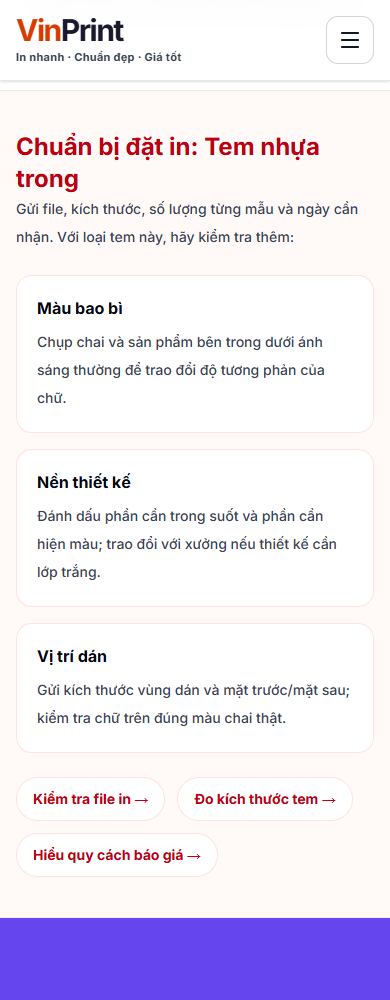
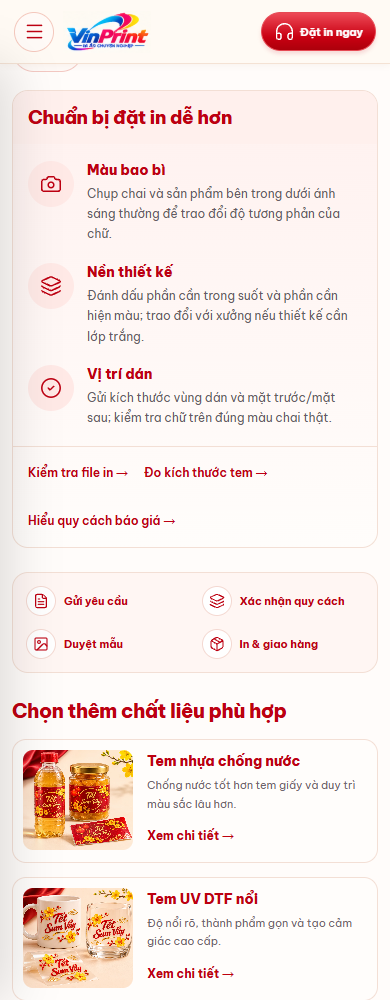
Apply approved Tet product detail design with quote flow

diff --git a/app/components/storefront/ProductDetail.tsx b/app/components/storefront/ProductDetail.tsx
@@ -1,0 +1,43 @@
+"use client";
+import Link from "next/link";
+import Image from "next/image";
+import {useEffect,useRef,useState,type FormEvent} from "react";
+import {Home,Tag,Sticker,Droplets,BadgeCheck,FileText,Gift,Image as ImageIcon,Upload,HelpCircle,ShoppingBag,Phone,Package,Headphones,Menu,BookOpen,X,Layers,Sparkles,Camera,CheckCircle2,ArrowRight,type LucideIcon} from "lucide-react";
+import {useSiteContent} from "../SiteContentProvider";
+import type {Product} from "../../lib/products";
+import type {ProductGuide} from "../../lib/product-guides";
+import type {OrderContext} from "../../lib/product-order-context";
+import {trackEvent} from "../../lib/analytics";
+import {buildQuoteMessage,safePublicHref,type QuoteValues} from "../../lib/storefront";
+import "./storefront.css";
+import "./product-detail.css";
+
+function Icon({icon:Component}:{icon:LucideIcon}){return <i aria-hidden="true"><Component/></i>;}
+function Art({box}:{box:string}){return <svg viewBox={box} preserveAspectRatio="xMidYMid slice" aria-hidden="true"><image href="/images/tet-2027/reference-products.png" width="1781" height="883"/></svg>;}
+type Props={product:Product;guide?:ProductGuide;orderContext?:OrderContext;related:Product[];posts:{slug:string;title:string}[]};
+export default function ProductDetail({product,guide,orderContext,related,posts}:Props){
+ const content=useSiteContent();const contact=content.contact;const zalo=safePublicHref(contact.zaloUrl);
+ const [menu,setMenu]=useState(false),[request,setRequest]=useState(""),[copied,setCopied]=useState(false),[copyError,setCopyError]=useState("");const dialog=useRef<HTMLDialogElement>(null),requestField=useRef<HTMLTextAreaElement>(null);
+ useEffect(()=>{if(!menu)return;const close=(event:KeyboardEvent)=>{if(event.key==="Escape")setMenu(false);};document.addEventListener("keydown",close);return ()=>document.removeEventListener("keydown",close);},[menu]);
+ function openQuote(){setMenu(false);setRequest("");setCopied(false);setCopyError("");dialog.current?.showModal();}
+ function prepare(event:FormEvent<HTMLFormElement>){event.preventDefault();const data=new FormData(event.currentTarget);const values=Object.fromEntries(["material","size","quantity","name","phone","deadline","note"].map(key=>[key,String(data.get(key)||"")])) as QuoteValues;values.product=product.name;setRequest(buildQuoteMessage(values));}
+ async function copy(){try{await navigator.clipboard.writeText(request);setCopied(true);setCopyError("");}catch{requestField.current?.focus();requestField.current?.select();setCopyError("Chọn và sao chép nội dung bên dưới để gửi qua Zalo.");}}
+ const navItems:[string,string,LucideIcon][]=[["Trang chủ","/",Home],["In tem nhãn","/san-pham/tem-giay",Tag],["In decal sticker","/san-pham/sticker-trang-tri",Sticker],["Tem nhãn chống nước","/san-pham/tem-nhua-chong-nuoc",Droplets],["Tem bạc, tem ánh kim","/san-pham/tem-bac",BadgeCheck],["Ấn phẩm quảng cáo","/?danh-muc=print#san-pham-tet",FileText],["Tem dán hộp & túi giấy","/nganh/sticker-hop-qua-tet",Gift],["Kho mẫu tham khảo","/mau-tem-moi",ImageIcon]];
+ return <div className="vinprint-storefront vp-product-storefront">
+ <aside id="sidebar" className={menu?"open":""} aria-label="Danh mục VinPrint"><Link className="logo" href="/" aria-label="VinPrint trang chủ"><Art box="18 0 178 77"/></Link><nav aria-label="Danh mục dịch vụ"><p>Danh mục dịch vụ</p>{navItems.map(([name,href,icon])=><Link prefetch={false} key={name} href={href} className={"vp-nav vp-action "+(href.endsWith(product.slug)?"active":"")} aria-current={href.endsWith(product.slug)?"page":undefined} onClick={()=>setMenu(false)}><Icon icon={icon}/>{name}</Link>)}<p>Công cụ & tiện ích</p><Link className="vp-nav vp-action" href="/cong-cu-mien-phi"><Icon icon={Sparkles}/>Công cụ miễn phí</Link><button className="vp-nav" onClick={openQuote}><Icon icon={FileText}/>Báo giá in online</button><a className="vp-nav vp-action" href={zalo} target="_blank" rel="noreferrer"><Icon icon={Upload}/>Gửi file thiết kế</a><Link className="vp-nav vp-action" href="/#quy-trinh"><Icon icon={HelpCircle}/>Hướng dẫn đặt in</Link><Link className="vp-nav vp-action" href="/blog"><Icon icon={BookOpen}/>Cẩm nang in ấn</Link><p>Hỗ trợ khách hàng</p><a className="vp-nav vp-action" href={zalo} target="_blank" rel="noreferrer"><Icon icon={ShoppingBag}/>Hỗ trợ đơn hàng</a><Link className="vp-nav vp-action" href="/#bang-gia"><Icon icon={FileText}/>Bảng giá tham khảo</Link><Link className="vp-nav vp-action" href="/lien-he"><Icon icon={Phone}/>Liên hệ hỗ trợ</Link></nav><div className="sidebar-art"><Art box="0 746 222 137"/></div></aside>
+ {menu&&<button className="vp-detail-backdrop" aria-label="Đóng danh mục" onClick={()=>setMenu(false)}/>}
+ <div className="workspace"><header className="vp-detail-topbar"><button id="menu" aria-label={menu?"Đóng danh mục":"Mở danh mục"} aria-expanded={menu} aria-controls="sidebar" onClick={()=>setMenu(!menu)}><Icon icon={Menu}/></button><Link className="vp-mobile-logo" href="/" aria-label="VinPrint"><Art box="18 0 178 77"/></Link><div className="peach"><Art box="223 0 230 70"/></div><nav className="toplinks" aria-label="Tiện ích nhanh"><button onClick={openQuote}><Icon icon={FileText}/>Báo giá nhanh</button><a className="vp-action" href={zalo} target="_blank" rel="noreferrer"><Icon icon={Upload}/>Gửi file in</a><Link className="vp-action" href="/mau-tem-moi"><Icon icon={ImageIcon}/>Kho mẫu</Link><a className="vp-action" href={zalo} target="_blank" rel="noreferrer"><Icon icon={Package}/>Đơn hàng</a><Link className="vp-action" href="/#quy-trinh"><Icon icon={HelpCircle}/>Hướng dẫn</Link></nav><div className="account"><a className="coins vp-action" href={"tel:"+contact.phone.replace(/[^+\d]/g,"")}><Icon icon={Phone}/>{contact.phoneDisplay}</a><button className="red" onClick={openQuote}><Icon icon={Headphones}/>Đặt in ngay</button><a className="avatar vp-action" href={zalo} aria-label="Nhắn Zalo VinPrint" target="_blank" rel="noreferrer">VP</a></div></header>
+ <main id="main-content" tabIndex={-1} className="vp-detail-main"><nav className="vp-detail-breadcrumb" aria-label="Đường dẫn"><Link href="/" aria-label="Trang chủ"><Icon icon={Home}/></Link><span>/</span><Link href="/san-pham">Tem nhãn</Link><span>/</span><span aria-current="page">{product.name}</span></nav>
+ <section className="vp-detail-hero" aria-labelledby="detail-title"><div className="vp-detail-photo"><Image unoptimized src={product.image} alt={"Mẫu minh họa thiết kế "+product.name} width={1448} height={1086} priority/><span>Ảnh mẫu minh họa</span></div><div className="vp-detail-summary"><h1 id="detail-title">{product.name}</h1><p className="vp-detail-eyebrow">{product.eyebrow}</p><p className="vp-detail-description">{product.description}</p><strong className="vp-detail-price">{product.priceLabel}</strong><p className="vp-detail-price-note">Giá tham khảo, xác nhận theo quy cách.</p><ul className="vp-detail-chips">{product.eyebrow.split(" · ").concat("In theo yêu cầu").map((text,index)=><li key={text}><Icon icon={index===0?Layers:index===1?Sparkles:FileText}/>{text}</li>)}</ul><div className="vp-detail-actions"><button className="red" onClick={openQuote}>Nhận báo giá <Icon icon={ArrowRight}/></button><a className="vp-action" href={zalo} target="_blank" rel="noreferrer" onClick={()=>trackEvent("click_zalo",{position:"product_"+product.slug})}>Gửi file qua Zalo</a></div><p className="vp-detail-note"><Icon icon={HelpCircle}/>Gửi kích thước, số lượng và ảnh bề mặt cần dán.</p><a className="vp-detail-source" href={product.source} target="_blank" rel="noreferrer">Xem sản phẩm tại shop →</a></div></section>
+ <nav className="vp-detail-tabs" aria-label="Nội dung sản phẩm"><a href="#ung-dung">Ứng dụng</a><a href="#order-checklist-title">Quy cách & file</a><a href="#luu-y-khi-dan">Lưu ý khi dán</a><a href="#product-faq-heading">Hỏi đáp</a></nav>
+ {orderContext&&<section className="vp-detail-panel vp-detail-prep" data-product-checklist={product.slug} aria-labelledby="order-checklist-title"><h2 id="order-checklist-title">Chuẩn bị đặt in dễ hơn</h2><dl className="vp-detail-checks">{orderContext.checks.map((check,index)=><div key={check.label}><Icon icon={index===0?Camera:index===1?Layers:CheckCircle2}/><div><dt>{check.label}</dt><dd>{check.text}</dd></div></div>)}</dl><nav className="vp-detail-guide-links" aria-label="Chuẩn bị đặt in"><Link href="/blog/chuan-bi-file-in-tem-khong-bi-mo">Kiểm tra file in →</Link><Link href="/huong-dan/chon-kich-thuoc-tem">Đo kích thước tem →</Link><Link href="/blog/gia-in-tem-so-luong-it-phu-thuoc-gi">Hiểu quy cách báo giá →</Link></nav></section>}
+ <ol className="vp-detail-process" aria-label="Quy trình đặt in">{[[FileText,"Gửi yêu cầu"],[Layers,"Xác nhận quy cách"],[ImageIcon,"Duyệt mẫu"],[Package,"In & giao hàng"]].map(([icon,label])=><li key={String(label)}><Icon icon={icon as LucideIcon}/><span>{String(label)}</span><ArrowRight aria-hidden="true"/></li>)}</ol>
+ <section className="related-products vp-detail-related" aria-labelledby="detail-related-title"><h2 id="detail-related-title">Chọn thêm chất liệu phù hợp</h2><div>{related.map(item=><Link href={"/san-pham/"+item.slug} key={item.slug}><Image unoptimized src={item.image} alt={"Mẫu minh họa "+item.name} width={160} height={120} loading="lazy"/><div><h3>{item.name}</h3><p>{item.benefit}</p><span>Xem chi tiết →</span></div></Link>)}</div></section>
+ <section className="vp-detail-panel" id="ung-dung"><h2>{product.name}: khi nào nên chọn?</h2><ul className="vp-detail-uses">{product.uses.map(use=><li key={use}>{use}</li>)}</ul>{guide?.paragraphs.map(text=><p className="vp-detail-body" key={text}>{text}</p>)}<p className="vp-detail-body">{product.benefit} Hãy thử trên bề mặt thực tế trước khi in số lượng lớn.</p></section>
+ {guide&&<section className="vp-detail-panel vp-detail-advice" id="luu-y-khi-dan"><div><h2>Nên chọn khi</h2><ul>{guide.chooseWhen.map(text=><li key={text}>✓ {text}</li>)}</ul></div><div><h2>Cần lưu ý</h2><ul>{guide.watchOut.map(text=><li key={text}>{text}</li>)}</ul></div><nav className="vp-detail-guide-links">{guide.links.map(link=><Link key={link.href} href={link.href}>{link.label} →</Link>)}</nav></section>}
+ {guide&&<section className="vp-detail-panel" aria-labelledby="product-faq-heading"><h2 id="product-faq-heading">{"Câu hỏi thường gặp về "+product.name.charAt(0).toLowerCase()+product.name.slice(1)}</h2><dl className="vp-detail-faq">{guide.faqs.map(item=><div key={item.q}><dt>{item.q}</dt><dd>{item.a}</dd></div>)}</dl>{posts.length>0&&<nav className="vp-detail-guide-links" aria-label="Bài viết liên quan">{posts.map(post=><Link href={"/blog/"+post.slug} key={post.slug}>{post.title} →</Link>)}</nav>}</section>}
+ <footer className="vp-detail-footer"><strong>VinPrint</strong><p>{contact.address} · {contact.phoneDisplay}</p><nav><Link href="/lien-he">Liên hệ</Link><Link href="/chinh-sach">Chính sách đặt in</Link><Link href="/bao-hanh">Kiểm tra & xử lý lỗi</Link><Link href="/san-pham">Tất cả sản phẩm</Link></nav></footer>
+ </main></div>
+ <dialog className="vp-detail-dialog" ref={dialog} aria-labelledby="detail-quote-title"><button className="vp-detail-close" onClick={()=>dialog.current?.close()} aria-label="Đóng hộp thoại"><X/></button><h2 id="detail-quote-title">Nhận báo giá in</h2>{!request?<><p>Chuẩn bị yêu cầu gửi VinPrint qua Zalo. Chưa phát sinh đơn hàng hoặc thanh toán.</p><form onSubmit={prepare}><label htmlFor="quote-product">Sản phẩm cần in</label><input id="quote-product" value={product.name} readOnly/><input type="hidden" name="material" value={product.name}/><div className="vp-detail-form-row"><div><label htmlFor="size">Kích thước</label><input id="size" name="size" required maxLength={80} placeholder="Ví dụ: 4 × 6 cm"/></div><div><label htmlFor="quantity">Số lượng</label><input id="quantity" name="quantity" type="number" defaultValue={500} min={1} max={1000000} step={1} required/></div></div><label htmlFor="deadline">Ngày cần nhận</label><input id="deadline" name="deadline" type="date"/><label htmlFor="note">Bề mặt dán và yêu cầu thêm</label><textarea id="note" name="note" maxLength={1000} rows={3}/><button className="red" type="submit">Chuẩn bị nội dung gửi Zalo →</button></form></>:<><p>Sao chép nội dung rồi gửi qua Zalo để xưởng xác nhận.</p><textarea ref={requestField} aria-label="Nội dung yêu cầu báo giá" readOnly rows={9} value={request}/><div className="vp-detail-actions"><button className="red" onClick={copy}>{copied?"Đã sao chép":"Sao chép yêu cầu"}</button><a className="vp-action" href={zalo} target="_blank" rel="noreferrer">Mở Zalo gửi yêu cầu →</a></div>{copyError&&<p role="status">{copyError}</p>}</>}</dialog>
+ </div>;
+}

diff --git a/app/components/storefront/product-detail.css b/app/components/storefront/product-detail.css
@@ -1,0 +1,36 @@
+.vp-product-storefront .vp-detail-main{padding:20px 22px 0;max-width:1800px;margin:auto}
+.vp-product-storefront .vp-detail-topbar{position:sticky;top:0;z-index:25}
+.vp-product-storefront .vp-detail-breadcrumb{display:flex;align-items:center;gap:14px;min-height:32px;margin-bottom:20px;font-size:13px;color:#6d6570}
+.vp-product-storefront .vp-detail-breadcrumb a{display:inline-flex;align-items:center;color:var(--ink);min-height:32px}.vp-product-storefront .vp-detail-breadcrumb [aria-current]{color:var(--red);font-weight:700}
+.vp-product-storefront .vp-detail-hero{display:grid;grid-template-columns:1fr 1fr;gap:32px;align-items:start}
+.vp-product-storefront .vp-detail-photo{position:relative;border-radius:17px;overflow:hidden;background:#fff4e7;aspect-ratio:3/2}
+.vp-product-storefront .vp-detail-photo>img{display:block;width:100%;height:100%;object-fit:cover}
+.vp-product-storefront .vp-detail-photo>span{position:absolute;bottom:12px;left:12px;background:#fffdf4e8;padding:7px 11px;border-radius:18px;font-size:11px;color:#5a4b49}
+.vp-product-storefront .vp-detail-summary h1{font-size:clamp(27px,2.5vw,40px);line-height:1.2;margin:0 0 12px;color:var(--red);font-weight:800;letter-spacing:-.7px}
+.vp-product-storefront .vp-detail-eyebrow{display:inline-block;margin:0 0 12px;padding:5px 13px;border-radius:20px;background:#ffe4e1;color:var(--red);font-size:15px;font-weight:700}
+.vp-product-storefront .vp-detail-description{font-size:14px;line-height:1.75;color:#4d4550;margin:0 0 14px}
+.vp-product-storefront .vp-detail-price{display:block;color:var(--red);font-size:28px;font-weight:800;line-height:1.4}
+.vp-product-storefront .vp-detail-price-note{font-size:12px;color:#776c72;margin:0 0 16px}
+.vp-product-storefront .vp-detail-chips{display:flex;flex-wrap:wrap;gap:8px;list-style:none;padding:0;margin:0 0 20px}
+.vp-product-storefront .vp-detail-chips li{display:inline-flex;align-items:center;gap:8px;border:1px solid #f4ccc4;background:#fffaf7;border-radius:24px;padding:9px 15px;color:var(--red);font-size:12px;font-weight:700}
+.vp-product-storefront .vp-detail-actions{display:flex;gap:12px;flex-wrap:wrap;margin-top:8px}.vp-product-storefront .vp-detail-actions>button,.vp-product-storefront .vp-detail-actions>a{flex:1;min-height:46px;font-weight:700;text-align:center;white-space:nowrap}
+.vp-product-storefront .vp-detail-note{display:flex;gap:9px;align-items:center;padding:11px 14px;border-radius:12px;background:#ffecea;color:var(--red);font-size:12px;line-height:1.6;margin:16px 0 0}
+.vp-product-storefront .vp-detail-source{display:inline-flex;align-items:center;min-height:36px;color:#7b6566;font-size:11px}
+.vp-product-storefront .vp-detail-tabs{display:flex;flex-wrap:wrap;gap:9px;margin:20px 0 18px}.vp-product-storefront .vp-detail-tabs a{display:inline-flex;align-items:center;justify-content:center;min-height:40px;padding:8px 23px;border:1px solid #f3c8c2;border-radius:24px;color:var(--red);font-size:13px;font-weight:700;background:#fffaf7}.vp-product-storefront .vp-detail-tabs a:first-child{background:var(--red);color:white}
+.vp-product-storefront .vp-detail-panel{border:1px solid var(--line);border-radius:16px;padding:22px;background:#fff;margin:24px 0}
+.vp-product-storefront h2{font-size:23px;line-height:1.4;font-weight:800;letter-spacing:-.5px;color:var(--red);margin:0 0 14px}
+.vp-product-storefront .vp-detail-prep{padding:0;overflow:hidden;background:linear-gradient(#fff1ef,#fffdfb);margin-top:0}.vp-product-storefront .vp-detail-prep h2{padding:10px 22px;margin:0;background:#fff0ed;font-size:21px}
+.vp-product-storefront .vp-detail-checks{display:grid;grid-template-columns:repeat(3,minmax(0,1fr));margin:0;padding:18px 22px;gap:24px}.vp-product-storefront .vp-detail-checks>div{display:flex;gap:13px;align-items:flex-start}.vp-product-storefront .vp-detail-checks>div>i{width:46px;height:46px;padding:12px;border-radius:50%;background:#ffe9e6;color:var(--red)}
+.vp-product-storefront .vp-detail-checks dt{font-size:15px;font-weight:800;color:var(--red);margin-bottom:5px}.vp-product-storefront .vp-detail-checks dd{font-size:12px;line-height:1.7;color:#655b64;margin:0}
+.vp-product-storefront .vp-detail-guide-links{display:flex;gap:10px 22px;flex-wrap:wrap}.vp-product-storefront .vp-detail-guide-links a{display:inline-flex;align-items:center;min-height:44px;color:var(--red);font-size:12px;font-weight:600;line-height:1.5}.vp-product-storefront .vp-detail-prep>.vp-detail-guide-links{border-top:1px solid var(--line);padding:0 22px}
+.vp-product-storefront .vp-detail-process{list-style:none;padding:12px 22px;margin:16px 0 24px;display:grid;grid-template-columns:repeat(4,minmax(0,1fr));gap:18px;border:1px solid var(--line);border-radius:26px;background:#fff6f3}.vp-product-storefront .vp-detail-process li{display:flex;align-items:center;gap:12px;color:var(--red);font-size:13px;font-weight:700}.vp-product-storefront .vp-detail-process li>i{width:38px;height:38px;padding:8px;border:1px solid #f4d8d1;border-radius:50%;background:white}.vp-product-storefront .vp-detail-process li>svg{width:18px;height:18px;margin-left:auto}.vp-product-storefront .vp-detail-process li:last-child>svg{display:none}
+.vp-product-storefront .vp-detail-related{padding:0;margin:24px 0}.vp-product-storefront .vp-detail-related>div{display:grid;grid-template-columns:repeat(3,minmax(0,1fr));gap:14px}.vp-product-storefront .vp-detail-related>div>a{display:grid;grid-template-columns:110px minmax(0,1fr);gap:14px;padding:10px;background:#fffdfb;border:1px solid var(--line);border-radius:14px;min-width:0}.vp-product-storefront .vp-detail-related img{width:110px;height:110px;object-fit:cover;border-radius:10px}.vp-product-storefront .vp-detail-related h3{font-size:14px;line-height:1.4;color:var(--red);font-weight:800;margin:2px 0 5px}.vp-product-storefront .vp-detail-related p{font-size:11px;line-height:1.65;color:#6f646b;margin:0 0 7px}.vp-product-storefront .vp-detail-related span{display:inline-flex;min-height:32px;align-items:center;font-size:12px;color:var(--red);font-weight:700}
+.vp-product-storefront .vp-detail-uses{display:flex;flex-wrap:wrap;gap:10px;list-style:none;padding:0;margin:0 0 20px}.vp-product-storefront .vp-detail-uses li{border:1px solid var(--line);border-radius:24px;padding:9px 15px;font-size:13px;background:#fffaf7}.vp-product-storefront .vp-detail-body{font-size:14px;line-height:1.9;color:#5c5460;max-width:95ch;margin:10px 0}
+.vp-product-storefront .vp-detail-advice{display:grid;grid-template-columns:1fr 1fr;gap:22px}.vp-product-storefront .vp-detail-advice ul{margin:0;padding-left:18px}.vp-product-storefront .vp-detail-advice li{font-size:13px;line-height:1.8;color:#5c5460;margin-bottom:7px}.vp-product-storefront .vp-detail-advice nav{grid-column:1/-1}
+.vp-product-storefront .vp-detail-faq{margin:0;display:grid;grid-template-columns:repeat(3,minmax(0,1fr));gap:20px}.vp-product-storefront .vp-detail-faq dt{font-weight:700;font-size:14px;color:var(--ink);line-height:1.6}.vp-product-storefront .vp-detail-faq dd{font-size:13px;line-height:1.9;color:#655b64;margin:8px 0 0}
+.vp-product-storefront .vp-detail-footer{padding:22px 0;color:#75686c;font-size:12px}.vp-product-storefront .vp-detail-footer strong{font-size:22px;color:var(--red)}.vp-product-storefront .vp-detail-footer nav{display:flex;gap:20px;flex-wrap:wrap}.vp-product-storefront .vp-detail-footer a{display:inline-flex;align-items:center;min-height:44px;color:var(--red)}
+.vp-product-storefront .vp-detail-dialog{border:1px solid var(--line);border-radius:20px;max-width:560px;width:calc(100% - 28px);padding:28px;max-height:88dvh;overflow:auto}.vp-product-storefront .vp-detail-dialog::backdrop{background:#311b2466}.vp-product-storefront .vp-detail-dialog p{font-size:13px;line-height:1.7;color:#6d6269}.vp-product-storefront .vp-detail-dialog label{display:block;font-size:13px;font-weight:700;margin:13px 0 6px}.vp-product-storefront .vp-detail-dialog input,.vp-product-storefront .vp-detail-dialog textarea{display:block;width:100%;min-width:0;border:1px solid #edd3cb;border-radius:9px;padding:10px;font-size:14px;background:white;color:var(--ink)}.vp-product-storefront .vp-detail-dialog form>button{margin-top:16px;width:100%}.vp-product-storefront .vp-detail-form-row{display:grid;grid-template-columns:1fr 1fr;gap:14px}.vp-product-storefront .vp-detail-close{position:absolute;right:12px;top:12px;min-width:36px;padding:7px}.vp-product-storefront .vp-detail-close svg{width:20px;height:20px}
+.vp-product-storefront .vp-detail-backdrop{display:none}
+@media(max-width:1250px){.vp-product-storefront .peach{display:none}.vp-product-storefront .vp-detail-hero{gap:22px}.vp-product-storefront .vp-detail-related>div>a{grid-template-columns:80px minmax(0,1fr)}.vp-product-storefront .vp-detail-related img{width:80px;height:100px}.vp-product-storefront .vp-detail-chips li{padding:8px 11px}}
+@media(max-width:1000px){.vp-product-storefront .vp-detail-hero{grid-template-columns:1fr}.vp-product-storefront .vp-detail-photo{max-height:460px}.vp-product-storefront .vp-detail-checks{gap:16px}.vp-product-storefront .vp-detail-checks>div{display:block}.vp-product-storefront .vp-detail-checks>div>i{margin-bottom:10px}.vp-product-storefront .vp-detail-process{grid-template-columns:repeat(2,minmax(0,1fr))}.vp-product-storefront .vp-detail-related>div{grid-template-columns:1fr}.vp-product-storefront .vp-detail-related>div>a{grid-template-columns:110px 1fr}.vp-product-storefront .vp-detail-related img{width:110px;height:100px}}
+@media(max-width:700px){.vp-product-storefront .vp-detail-main{padding:14px 12px 0}.vp-product-storefront .vp-detail-breadcrumb{font-size:11px;gap:8px;margin-bottom:14px}.vp-product-storefront .vp-detail-hero{gap:18px}.vp-product-storefront .vp-detail-summary h1{font-size:28px}.vp-product-storefront .vp-detail-eyebrow{font-size:13px}.vp-product-storefront .vp-detail-description{font-size:13px}.vp-product-storefront .vp-detail-price{font-size:25px}.vp-product-storefront .vp-detail-chips{gap:6px;margin-bottom:15px}.vp-product-storefront .vp-detail-chips li{font-size:11px;padding:8px 10px;gap:6px}.vp-product-storefront .vp-detail-chips i{width:17px;height:17px}.vp-product-storefront .vp-detail-actions{gap:8px}.vp-product-storefront .vp-detail-actions>button,.vp-product-storefront .vp-detail-actions>a{font-size:12px;padding:9px 12px}.vp-product-storefront .vp-detail-tabs{gap:7px}.vp-product-storefront .vp-detail-tabs a{font-size:11px;padding:8px 13px;min-height:44px}.vp-product-storefront h2{font-size:20px}.vp-product-storefront .vp-detail-panel{padding:18px 15px}.vp-product-storefront .vp-detail-prep{padding:0}.vp-product-storefront .vp-detail-prep h2{font-size:19px;padding:13px 15px}.vp-product-storefront .vp-detail-checks{grid-template-columns:1fr;padding:17px 15px;gap:18px}.vp-product-storefront .vp-detail-checks>div{display:flex;gap:13px}.vp-product-storefront .vp-detail-checks>div>i{margin:0}.vp-product-storefront .vp-detail-checks dt{font-size:14px}.vp-product-storefront .vp-detail-checks dd{font-size:12px}.vp-product-storefront .vp-detail-prep>.vp-detail-guide-links{padding:4px 15px}.vp-product-storefront .vp-detail-guide-links{gap:4px 16px}.vp-product-storefront .vp-detail-process{padding:13px;gap:13px;border-radius:16px}.vp-product-storefront .vp-detail-process li{font-size:11px;gap:8px}.vp-product-storefront .vp-detail-process li>i{width:30px;height:30px;padding:6px}.vp-product-storefront .vp-detail-process li>svg{display:none}.vp-product-storefront .vp-detail-advice,.vp-product-storefront .vp-detail-faq{grid-template-columns:1fr}.vp-product-storefront .vp-detail-body{font-size:13px}.vp-product-storefront .vp-detail-dialog{padding:28px 18px 18px}.vp-product-storefront .vp-detail-form-row{grid-template-columns:1fr}.vp-product-storefront .vp-detail-backdrop{display:block;position:fixed;inset:64px 0 0;background:#24141455;border:0;border-radius:0;z-index:19;width:100%;height:calc(100dvh - 64px)}.vp-product-storefront aside{z-index:26}.vp-product-storefront .sidebar-art{position:fixed}}

diff --git a/app/san-pham/[slug]/page.tsx b/app/san-pham/[slug]/page.tsx
@@ -1,11 +1,6 @@
 import type { Metadata } from "next";
 import { notFound } from "next/navigation";
-import Link from "next/link";
-import Image from "next/image";
-import { ArrowDownIcon, ArrowLeftIcon, ArrowUpRightIcon, MessageIcon } from "../../components/icons";
-import ConversionLink from "../../components/ConversionLink";
-import Header from "../../components/home/Header";
-import Footer from "../../components/home/Footer";
+import ProductDetail from "../../components/storefront/ProductDetail";
 import { productBySlug, products } from "../../lib/products";
 import { productGuides } from "../../lib/product-guides";
 import { productOrderContext } from "../../lib/product-order-context";
@@ -107,119 +102,7 @@ export default async function ProductPage({ params }: ProductPageProps) {
       <script type="application/ld+json" dangerouslySetInnerHTML={{ __html: JSON.stringify(productSchema) }} />
       <script type="application/ld+json" dangerouslySetInnerHTML={{ __html: JSON.stringify(breadcrumbSchema) }} />
       {faqSchema && <script type="application/ld+json" dangerouslySetInnerHTML={{ __html: JSON.stringify(faqSchema) }} />}
-      <Header />
-      <main className="product-page pt-20" id="main-content" tabIndex={-1}>
-
-      <section className={`product-hero product-hero--${product.tone}`}>
-        <div className="shell product-hero__grid">
-          <div className="product-hero__copy">
-              <Link href="/san-pham" className="product-breadcrumb"><ArrowLeftIcon /> SẢN PHẨM / {product.eyebrow}</Link>
-            <h1>{product.name}</h1>
-            <p>{product.description}</p>
-            <div className="product-hero__benefit"><span>Ưu điểm chính</span><strong>{product.benefit}</strong></div>
-            <div className="product-hero__actions">
-                <Link href="/#bang-gia">Xem combo ưu đãi <ArrowDownIcon /></Link>
-              <ConversionLink href="https://zalo.me/0844998499" target="_blank" rel="noreferrer" eventName="click_zalo" eventPosition={`product_${product.slug}`}><MessageIcon /> Hỏi giá qua Zalo <ArrowUpRightIcon /></ConversionLink>
-            </div>
-            <small>Giá tham khảo: <b>{product.priceLabel}</b>. Xưởng xác nhận sau khi xem file, số lượng và quy cách.</small>
-          </div>
-          <div className="product-hero__image">
-            <Image src={product.image} alt={`Mẫu minh họa thiết kế ${product.name}`} fill sizes="(max-width: 1040px) 100vw, 48vw" className="object-contain" />
-            <span>ẢNH MẪU MINH HỌA</span>
-            <a href={product.source} target="_blank" rel="noreferrer">Xem sản phẩm tại shop <ArrowUpRightIcon /></a>
-          </div>
-        </div>
-      </section>
-
-      <section className="product-details section-pad">
-        <div className="shell product-details__grid">
-          <div>
-            <span className="section-index">APPLICATION MAP</span>
-            <h2>Dùng tốt<br />trên sản phẩm nào?</h2>
-          </div>
-          <div className="product-use-grid">
-            {product.uses.map((use, index) => <div key={use}><span>{String(index + 1).padStart(2, "0")}</span><b>{use}</b></div>)}
-          </div>
-        </div>
-      </section>
-
-      {guide && (
-        <section className="bg-white px-4 py-14 sm:py-20" aria-labelledby="product-guide-heading">
-          <div className="mx-auto grid max-w-6xl gap-10 lg:grid-cols-[1.1fr_1fr]">
-            <div>
-              <h2 id="product-guide-heading" className="text-3xl font-black leading-tight text-gray-950 sm:text-4xl">{`${product.name}: khi nào nên chọn?`}</h2>
-              {guide.paragraphs.map((paragraph) => <p key={paragraph} className="mt-5 text-base leading-8 text-gray-700">{paragraph}</p>)}
-              <ul className="mt-6 flex flex-wrap gap-3">
-                {guide.links.map((item) => (
-                  <li key={item.href}><Link href={item.href} className="inline-flex min-h-11 items-center rounded-full border border-gray-300 px-4 text-sm font-bold text-gray-900 hover:border-[#D83B00] hover:text-[#D83B00]">{item.label} →</Link></li>
-                ))}
-              </ul>
-            </div>
-            <div className="grid gap-5 sm:grid-cols-2 lg:grid-cols-1">
-              <div className="rounded-3xl bg-orange-50 p-6">
-                <h3 className="text-sm font-black uppercase tracking-wider text-orange-800">Nên chọn khi</h3>
-                <ul className="mt-4 space-y-3">{guide.chooseWhen.map((item) => <li key={item} className="font-semibold text-gray-900">✓ {item}</li>)}</ul>
-              </div>
-              <div className="rounded-3xl bg-gray-100 p-6">
-                <h3 className="text-sm font-black uppercase tracking-wider text-gray-700">Cần lưu ý</h3>
-                <ul className="mt-4 space-y-3">{guide.watchOut.map((item) => <li key={item} className="font-semibold text-gray-900">• {item}</li>)}</ul>
-              </div>
-            </div>
-          </div>
-        </section>
-      )}
-
-      {orderContext && <section className="border-y border-red-100 bg-[#fffaf7] px-4 py-10" aria-labelledby="order-checklist-title" data-product-checklist={product.slug}><div className="mx-auto max-w-6xl"><h2 id="order-checklist-title" className="text-2xl font-black text-[#bd0011]">Chuẩn bị đặt in: {product.name}</h2><p className="mt-3 text-sm leading-7 text-gray-700">Gửi file, kích thước, số lượng từng mẫu và ngày cần nhận. Với loại tem này, hãy kiểm tra thêm:</p><dl className="mt-6 grid gap-4 md:grid-cols-3">{orderContext.checks.map(check=><div key={check.label} className="rounded-2xl border border-red-100 bg-white p-5"><dt className="font-bold text-gray-950">{check.label}</dt><dd className="mt-2 text-sm leading-7 text-gray-700">{check.text}</dd></div>)}</dl><nav aria-label="Chuẩn bị đặt in" className="mt-6 flex flex-wrap gap-3">{[{href:"/blog/chuan-bi-file-in-tem-khong-bi-mo",label:"Kiểm tra file in"},{href:"/huong-dan/chon-kich-thuoc-tem",label:"Đo kích thước tem"},{href:"/blog/gia-in-tem-so-luong-it-phu-thuoc-gi",label:"Hiểu quy cách báo giá"}].map(link=><Link key={link.href} href={link.href} className="inline-flex min-h-11 items-center rounded-full border border-red-100 bg-white px-4 text-sm font-bold text-[#bd0011]">{link.label} →</Link>)}</nav></div></section>}
-
-      <section className="product-order">
-        <div className="shell product-order__grid">
-          <div><span>QUY TRÌNH ĐẶT IN</span><h2>Gửi đủ một lần.<br />Xử lý nhanh hơn.</h2></div>
-          <ol>
-            <li><b>01</b><span><strong>Gửi file</strong><small>File + số lượng + chất liệu</small></span></li>
-            <li><b>02</b><span><strong>Nhận báo giá</strong><small>Nhân viên kiểm tra trực tiếp</small></span></li>
-            <li><b>03</b><span><strong>Đặt cọc</strong><small>Gửi thông tin nhận hàng</small></span></li>
-            <li><b>04</b><span><strong>Chờ tem về</strong><small>Nhận tại xưởng hoặc giao hàng</small></span></li>
-          </ol>
-        </div>
-      </section>
-
-      {guide && (
-        <section className="bg-[#F7F4EE] px-4 py-14 sm:py-20" aria-labelledby="product-faq-heading">
-          <div className="mx-auto max-w-6xl">
-            <h2 id="product-faq-heading" className="text-3xl font-black text-gray-950 sm:text-4xl">{`Câu hỏi thường gặp về ${product.name.toLowerCase()}`}</h2>
-            <dl className="mt-8 grid gap-5 lg:grid-cols-3">
-              {guide.faqs.map((item) => (
-                <div key={item.q} className="rounded-3xl border border-gray-200 bg-white p-6">
-                  <dt className="text-lg font-black text-gray-950">{item.q}</dt>
-                  <dd className="mt-3 text-base leading-7 text-gray-700">{item.a}</dd>
-                </div>
-              ))}
-            </dl>
-            {guidePosts.length > 0 && (
-              <nav aria-label="Bài viết liên quan" className="mt-10">
-                <h3 className="text-sm font-black uppercase tracking-wider text-gray-600">Đọc thêm trong cẩm nang</h3>
-                <ul className="mt-4 grid gap-3 sm:grid-cols-2">
-                  {guidePosts.map((post) => (
-                    <li key={post.slug}><Link href={`/blog/${post.slug}`} className="flex min-h-12 items-center rounded-2xl border border-gray-200 bg-white px-5 py-3 font-bold text-gray-900 hover:border-[#D83B00] hover:text-[#D83B00]">{post.title} →</Link></li>
-                  ))}
-                </ul>
-              </nav>
-            )}
-          </div>
-        </section>
-      )}
-
-      <section className="related-products section-pad">
-        <div className="shell">
-          <header><span className="section-index">RELATED MATERIALS</span><h2>Xem thêm lựa chọn.</h2></header>
-          <div>
-            {related.map((item) => <Link href={`/san-pham/${item.slug}`} key={item.slug}><small>{item.eyebrow}</small><strong>{item.name}</strong><span>{item.benefit}</span><ArrowUpRightIcon /></Link>)}
-          </div>
-        </div>
-      </section>
-
-      </main>
-      <Footer />
+      <ProductDetail product={product} guide={guide} orderContext={orderContext} related={related} posts={guidePosts.map(post=>({slug:post.slug,title:post.title}))}/>
     </>
   );
 }

diff --git a/app/components/storefront/Storefront.tsx b/app/components/storefront/Storefront.tsx
@@ -48,6 +48,7 @@ export default function Storefront(){
   const callUrl="tel:"+contact.phone.replace(/[^+\d]/g,"");
   const primaryHref=safePublicHref(tetHome.primaryCta.href,"#nhan-bao-gia");
 
+  useEffect(()=>{const frame=requestAnimationFrame(()=>{if(new URLSearchParams(window.location.search).get("danh-muc")==="print")setFilter("print");});return ()=>cancelAnimationFrame(frame);},[]);
   useEffect(()=>{
     const dialog=dialogRef.current;
     if(modal && dialog && !dialog.open) dialog.showModal();

diff --git a/docs/lessons/2026-11-28-seo-claims-and-sources.md b/docs/lessons/2026-11-28-seo-claims-and-sources.md
@@ -11,3 +11,17 @@
 - Nguyên nhân: related lấy products.filter(...).slice(0,3), nên tất cả trang gần như cùng gợi ý, bất kể mục đích dùng.
 - Sửa: mapping có3đích riêng và3mục chuẩn bị riêng cho từng10sản phẩm; không tựlink, không thêmclaim/giá. Sitemap chỉ đổi ngày cho các trang thực sửa.
 - Chặn: tests/product-order-context.test.ts kiểm đầy đủ10slug/khôngtrùng/đích tồn tại; HTMLtest khoanh đúngsection để không đếm linkfooter. verify-product-order-content.cjs kiểm link200 và mobile.
+
+
+## Trang sản phẩm chưa đẹp — Issue156
+- Chủ từ chối thẩm mỹ trang UV DTF. Nguyên nhân: bổ sung SEO trong template chi tiết cũ (khối tím lớn/chữ display quá to/header cũ), không bảo đảm cùng hệ giao diện Tết của homepage. HTML/link pass không thay thế nghiệm thu hình ảnh.
+- Theo yêu cầu xem demo trước đã có trong phiên: tạo ảnh đề xuất mới với sidebar/header đỏ/hồng, ảnh trái/thông tin phải, checklist3cột và quy trìnhngắn; chưa sửa layout local.
+- Ảnh demo: C:/Users/Admin/.codex/generated_images/01a21d35-bbb2-7981-8522-5bc64ec2d532/exec-9a1770b2-becc-431c-89b2-2fe3fba9c0a1.png. Đợi chủ chọn trước khi code giao diện; ảnh demo không phải screenshot local hoặc bằng chứng chức năng. Khi triển khai phải giữ toàn bộ nội dung hữu ích, nhãn ảnh minh họa, giá thực và test1440/390.
+
+
+## Áp dụng demo sản phẩm đã duyệt — Issue156
+- Chủ đã trả lời duyệt cho ảnh exec-9a1770b2-becc-431c-89b2-2fe3fba9c0a1.png; quyền này là triển khai local, không phải merge/deploy.
+- ProductDetail dùng cùng sidebar/header/tokens với storefront; ảnh trái/thông tin phải, checklist3cột, quytrìnhngắn, relatedcóảnh; giữ nội dung hướng dẫn/FAQ/schema/giá và10mapping. CSS có scope vp-product-storefront, không dùng header trongsection để tránh CSSsticky/fixed.
+- Nút Nhận báo giá mởdialog đúngsảnphẩm, dựngnộidung và clipboard, khách tựgửiZalo. Kiểm clipboard Windows phải chuẩn hóa CRLF khi đối chiếu.
+- Sidebar advertising mang query danh-muc=print; homepage đồng bộquery sauframe và cócancelcleanup, tránh setState trực tiếp trongeffect bịlintchặn. Browser kiểm6ấnphẩm và không mởdialogngoàiýmuốn.
+- scripts/verify-approved-product-design.cjs kiểm4viewport,hero2cột/đỏtheme/giá, báo giá/clipboard/Escape và menuadvertising; verify-product-order-content.cjs kiểm10trang. Ảnh screenshot chỉ ẩn nextjs-portal làwidgetdev, không đổiUIkhách.

diff --git a/docs/TET-STOREFRONT-INTEGRATION.md b/docs/TET-STOREFRONT-INTEGRATION.md
@@ -67,3 +67,8 @@ Mỗi ô công cụ có cảnh SVG/CSS động104×76px (mobile88×66), mô tả
 Chủ xác nhận MẪU 1 sau khi xem ảnh demo. MaterialCatalog thay MaterialExplorer: một thẻ giấy lớn, sáu thẻ ảnh chất liệu và ba liên kết phụ; tổng 10 loại tem giữ giá/URL từ products. Ảnh catalog-approved-1.webp giữ kích thước nguồn1536×1024, bảy vùng ảnh SVG giữ tỷ lệ, chữ/nút là HTML. Bỏ hoàn toàn khối Các sản phẩm đang hot và request hot-products trên homepage; bộ sưu tập quản trị giữ nguyên. verify-approved-catalog.cjs kiểm 4 viewport, tiêu đề không đè ảnh, 10 URL HTTP200, báo giá giấy, bảy crop riêng và dữ liệu quản trị không đổi.
 
 Issue151: Đồng bộ mẫu1 với theme trang: tiêu đề đỏ24px/20px, token --red/--ink/--line, nền hồng kem nhẹ, thẻ trắng và nút bo tròn. Không thay ảnh, thứ tự hay giá.
+
+
+## Trang sản phẩm — demo được chủ duyệt, Issue156
+Template10trang sản phẩm dùng ProductDetail và product-detail.css theo ảnh demo UV DTF đã duyệt: sidebar/header đồng bộhomepage, photoleft/copyright, giáthật, quote/Zalo, neođếnnộidung, checklist/process/relatedngắn. Nội dung chuyên môn/FAQ/structureddata/canonical giữtrênSSR, không ẩn bỏ SEO. Dialog chỉ chuẩn bị và sao chép yêu cầu, không tạo đơn hoặc tải filegiả. ProductOrder mapping và30related giữnguyên. Riêng menuấnphẩm từtrangcon dùng /?danh-muc=print#san-pham-tet và đã kiểm mởđúng6ấnphẩm.
+Bằng chứng approved-product-design-results.json, approved-product-*.png và product-order-results.json trong docs/evidence/tet-storefront. Chưa merge/deploy. Hoàn tác bằng revert commit triển khai Issue156; không chạm dữ liệu quản trị.
